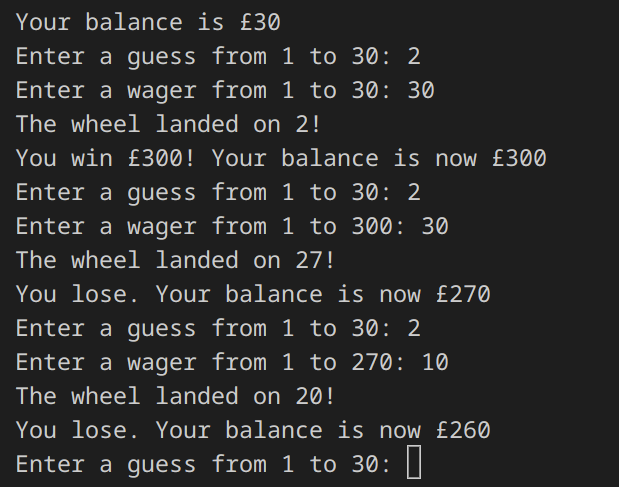
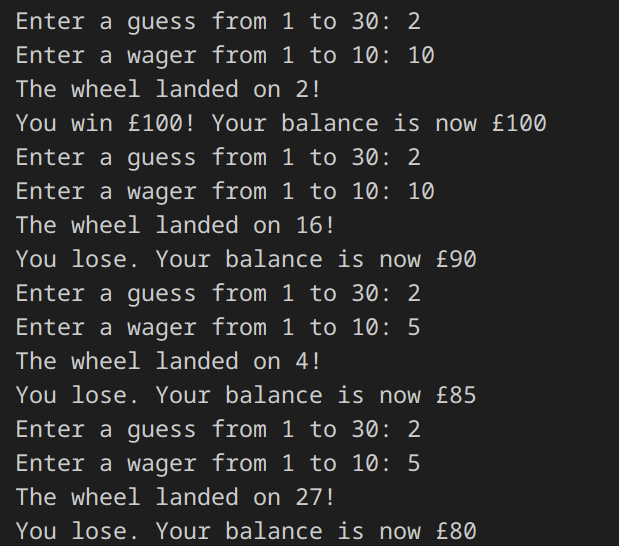
Fixed c35-game-of-chance It now better matches the challenge text

diff --git a/c35-game-of-chance/src/main.rs b/c35-game-of-chance/src/main.rs
@@ -11,29 +11,21 @@ const PRIMES_UNDER_30: [u64; 10] = [
 /// Calculates the reward given the user's wager, the user's guess and the result.
 fn calculate_reward(wager: u64, guess: u64, result: u64) -> u64 {
     // Calculate multiplier
-    let multiplier = match result {
-        // Immediately return 0 if r != guess
-        r if r != guess => return 0,
-        // 5x multiplier if r is prime
-        r if PRIMES_UNDER_30.contains(&r) => 5,
-        // 3x multiplier if r is a multiple of 10
-        r if r % 10 == 0 => 3,
-        // 2x multiplier if r is a multiple of 2
-        r if r % 2 == 0 => 2,
-        // 1x multiplier otherwise
-        _ => 1,
-    };
+    let mut multiplier = 1;
 
-    // Calculate bonus multiplier
-    let bonus = match result {
-        // bonus 2x multiplier if r is less than 5
-        r if r < 5 => 2,
-        // no bonus multiplier otherwise
-        _ => 5,
-    };
+    if guess != result {return 0}
+
+    // If r is even, 2x multiplier
+    if guess % 2 == 0 {multiplier *= 2};
+    // If r is a multiple of 10, 3x multiplier
+    if guess % 10 == 0 {multiplier *= 3};
+    // If r is prime, 5x multiplier
+    if PRIMES_UNDER_30.contains(&guess) {multiplier *= 5};
+    // If r is less than 5, 2x multiplier
+    if guess < 5 {multiplier *= 2};
 
     // Calculate final reward
-    wager * multiplier * bonus
+    wager * multiplier
 }
 
 /// Reads a positive number from stdin given an upper bound and a prompt describing 
@@ -79,7 +71,7 @@ fn main() {
     while balance != 0 {
         // Input guess and wager
         let guess = read_u64("a guess", 30).unwrap();
-        let wager = read_u64("a wager", balance).unwrap();
+        let wager = read_u64("a wager", u64::min(balance, 10)).unwrap();
 
         // Subtract wager from balance
         balance -= wager;

diff --git a/c35-game-of-chance/README.md b/c35-game-of-chance/README.md
@@ -3,3 +3,5 @@
 A Program to simulate a roulette - like game of chance. The user can choose a random number from 1 to 30 and wins differing amounts depending on the qualities of the number, but only if a random chosen number from 1 to 30 is the same as their chosen number.
 
 ![image](images/example.png)
+
+![image](images/example%202.png)
